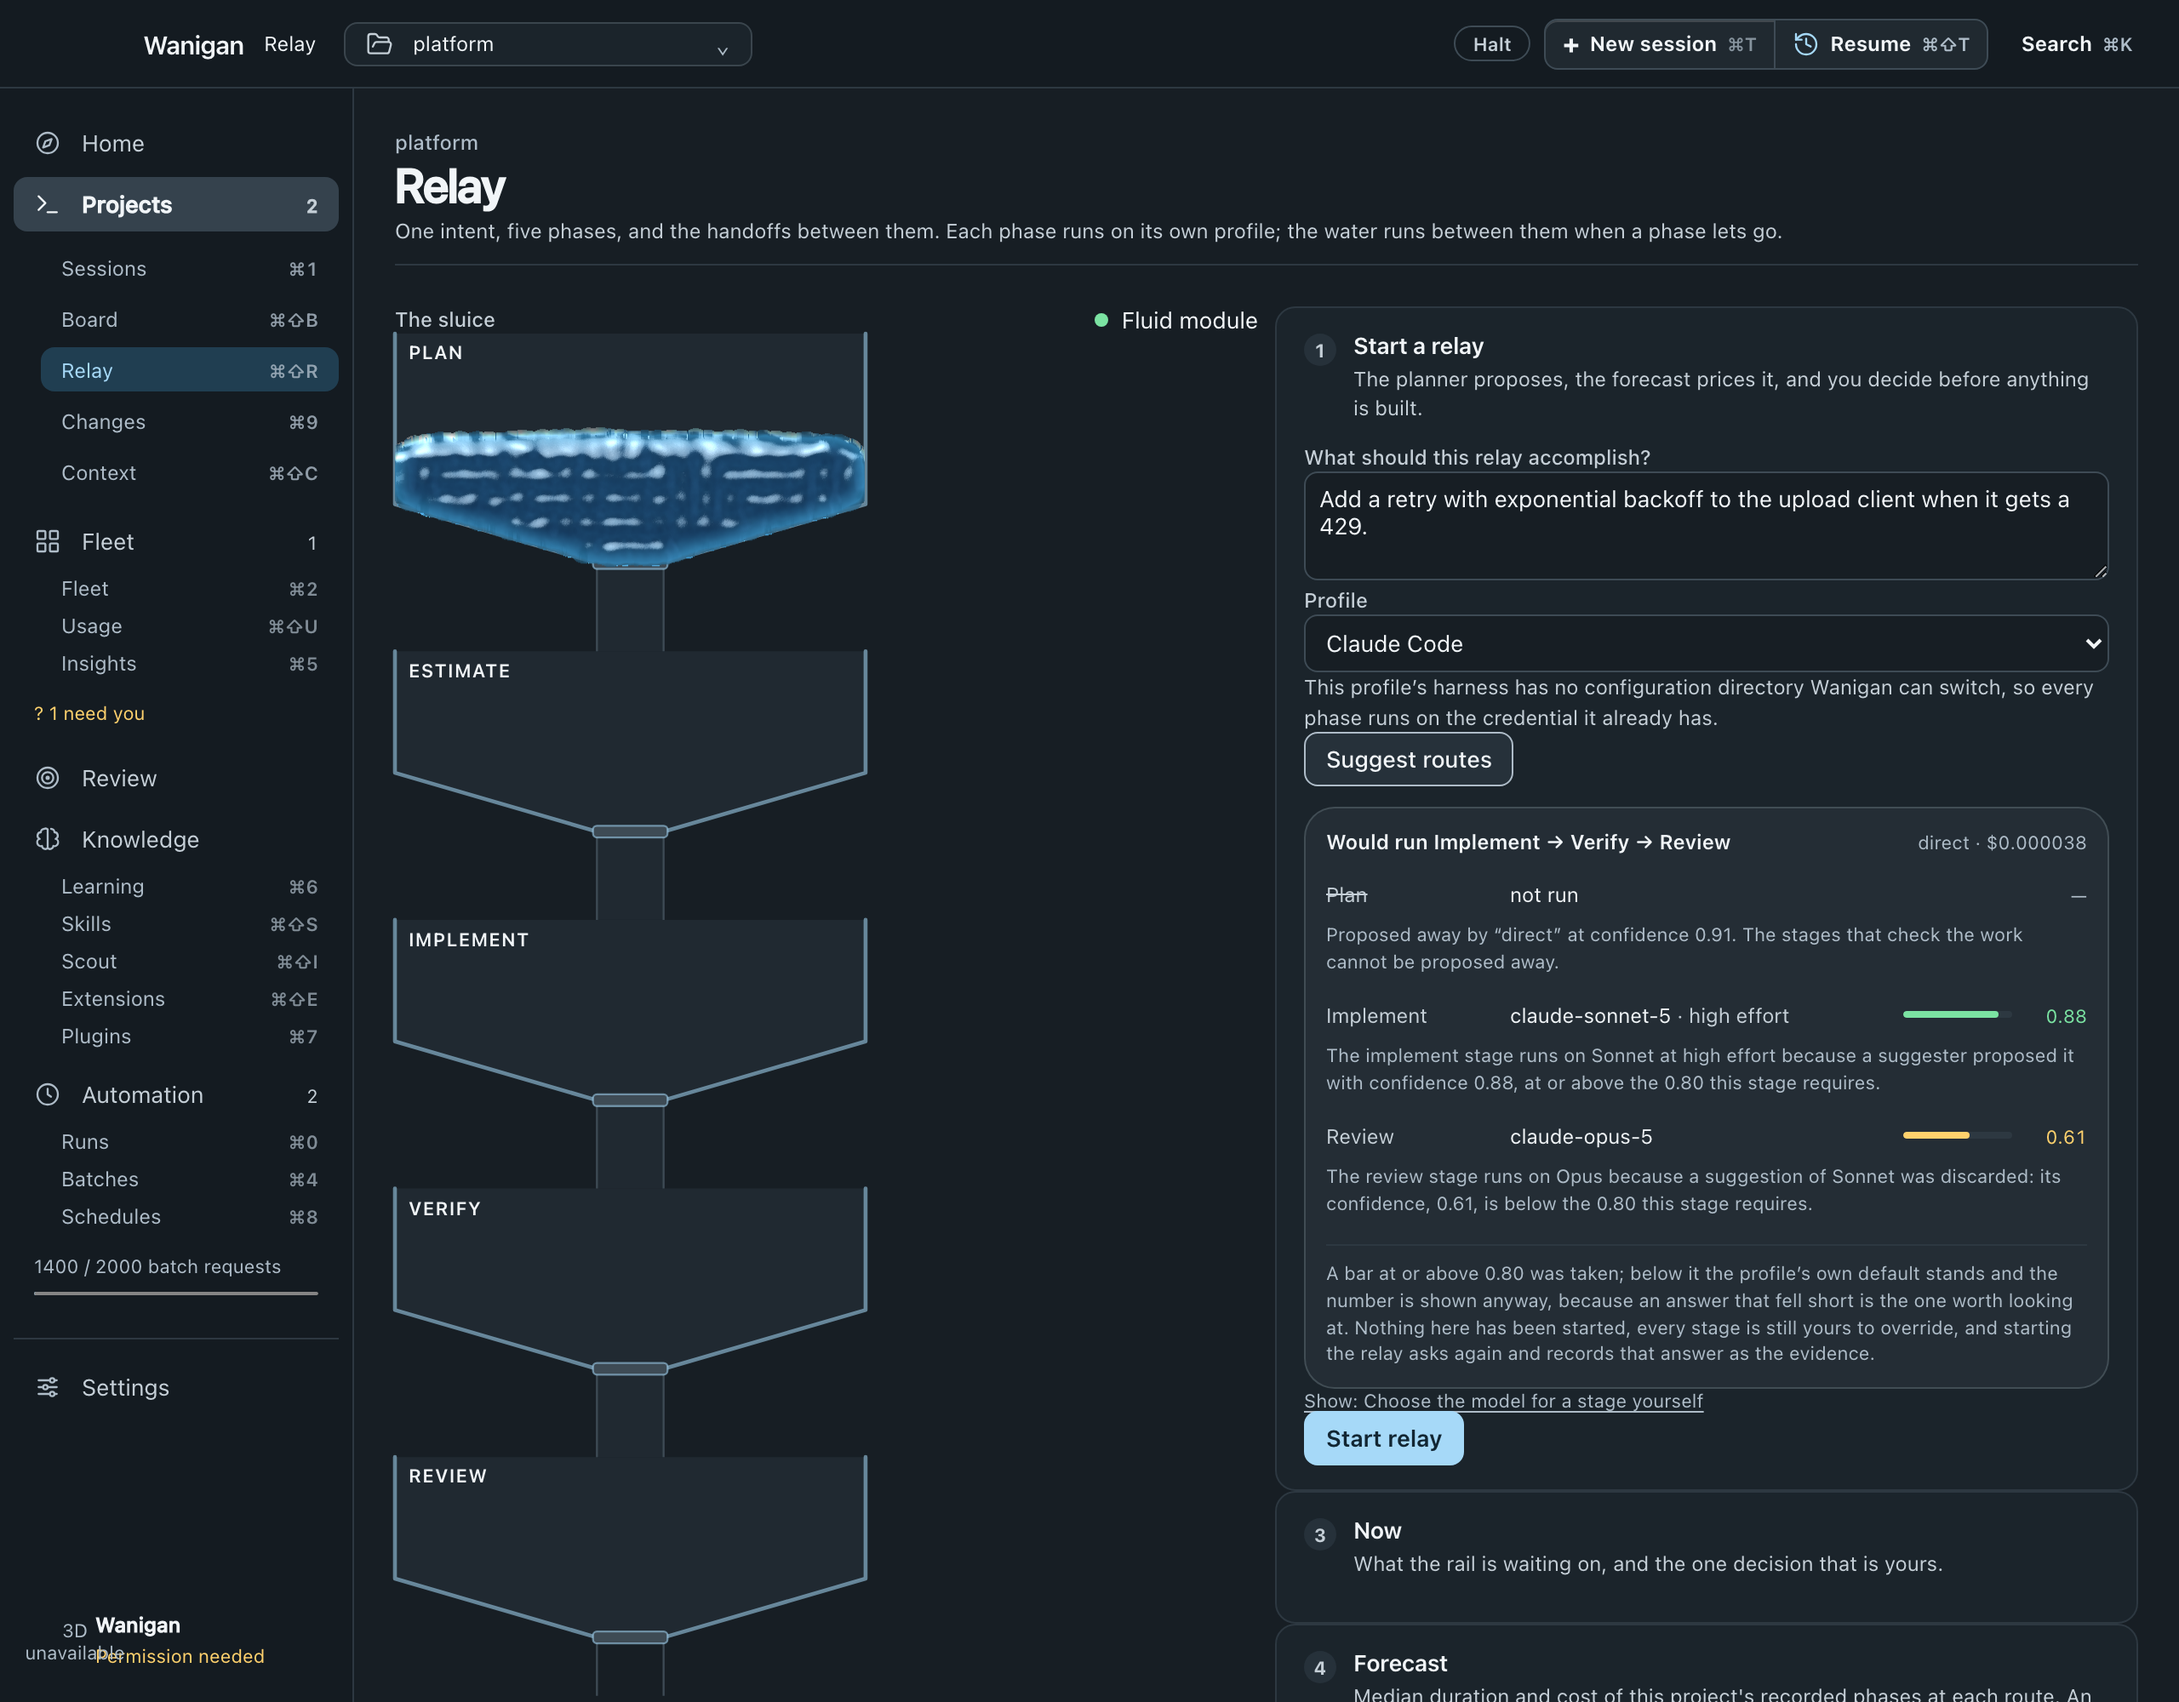
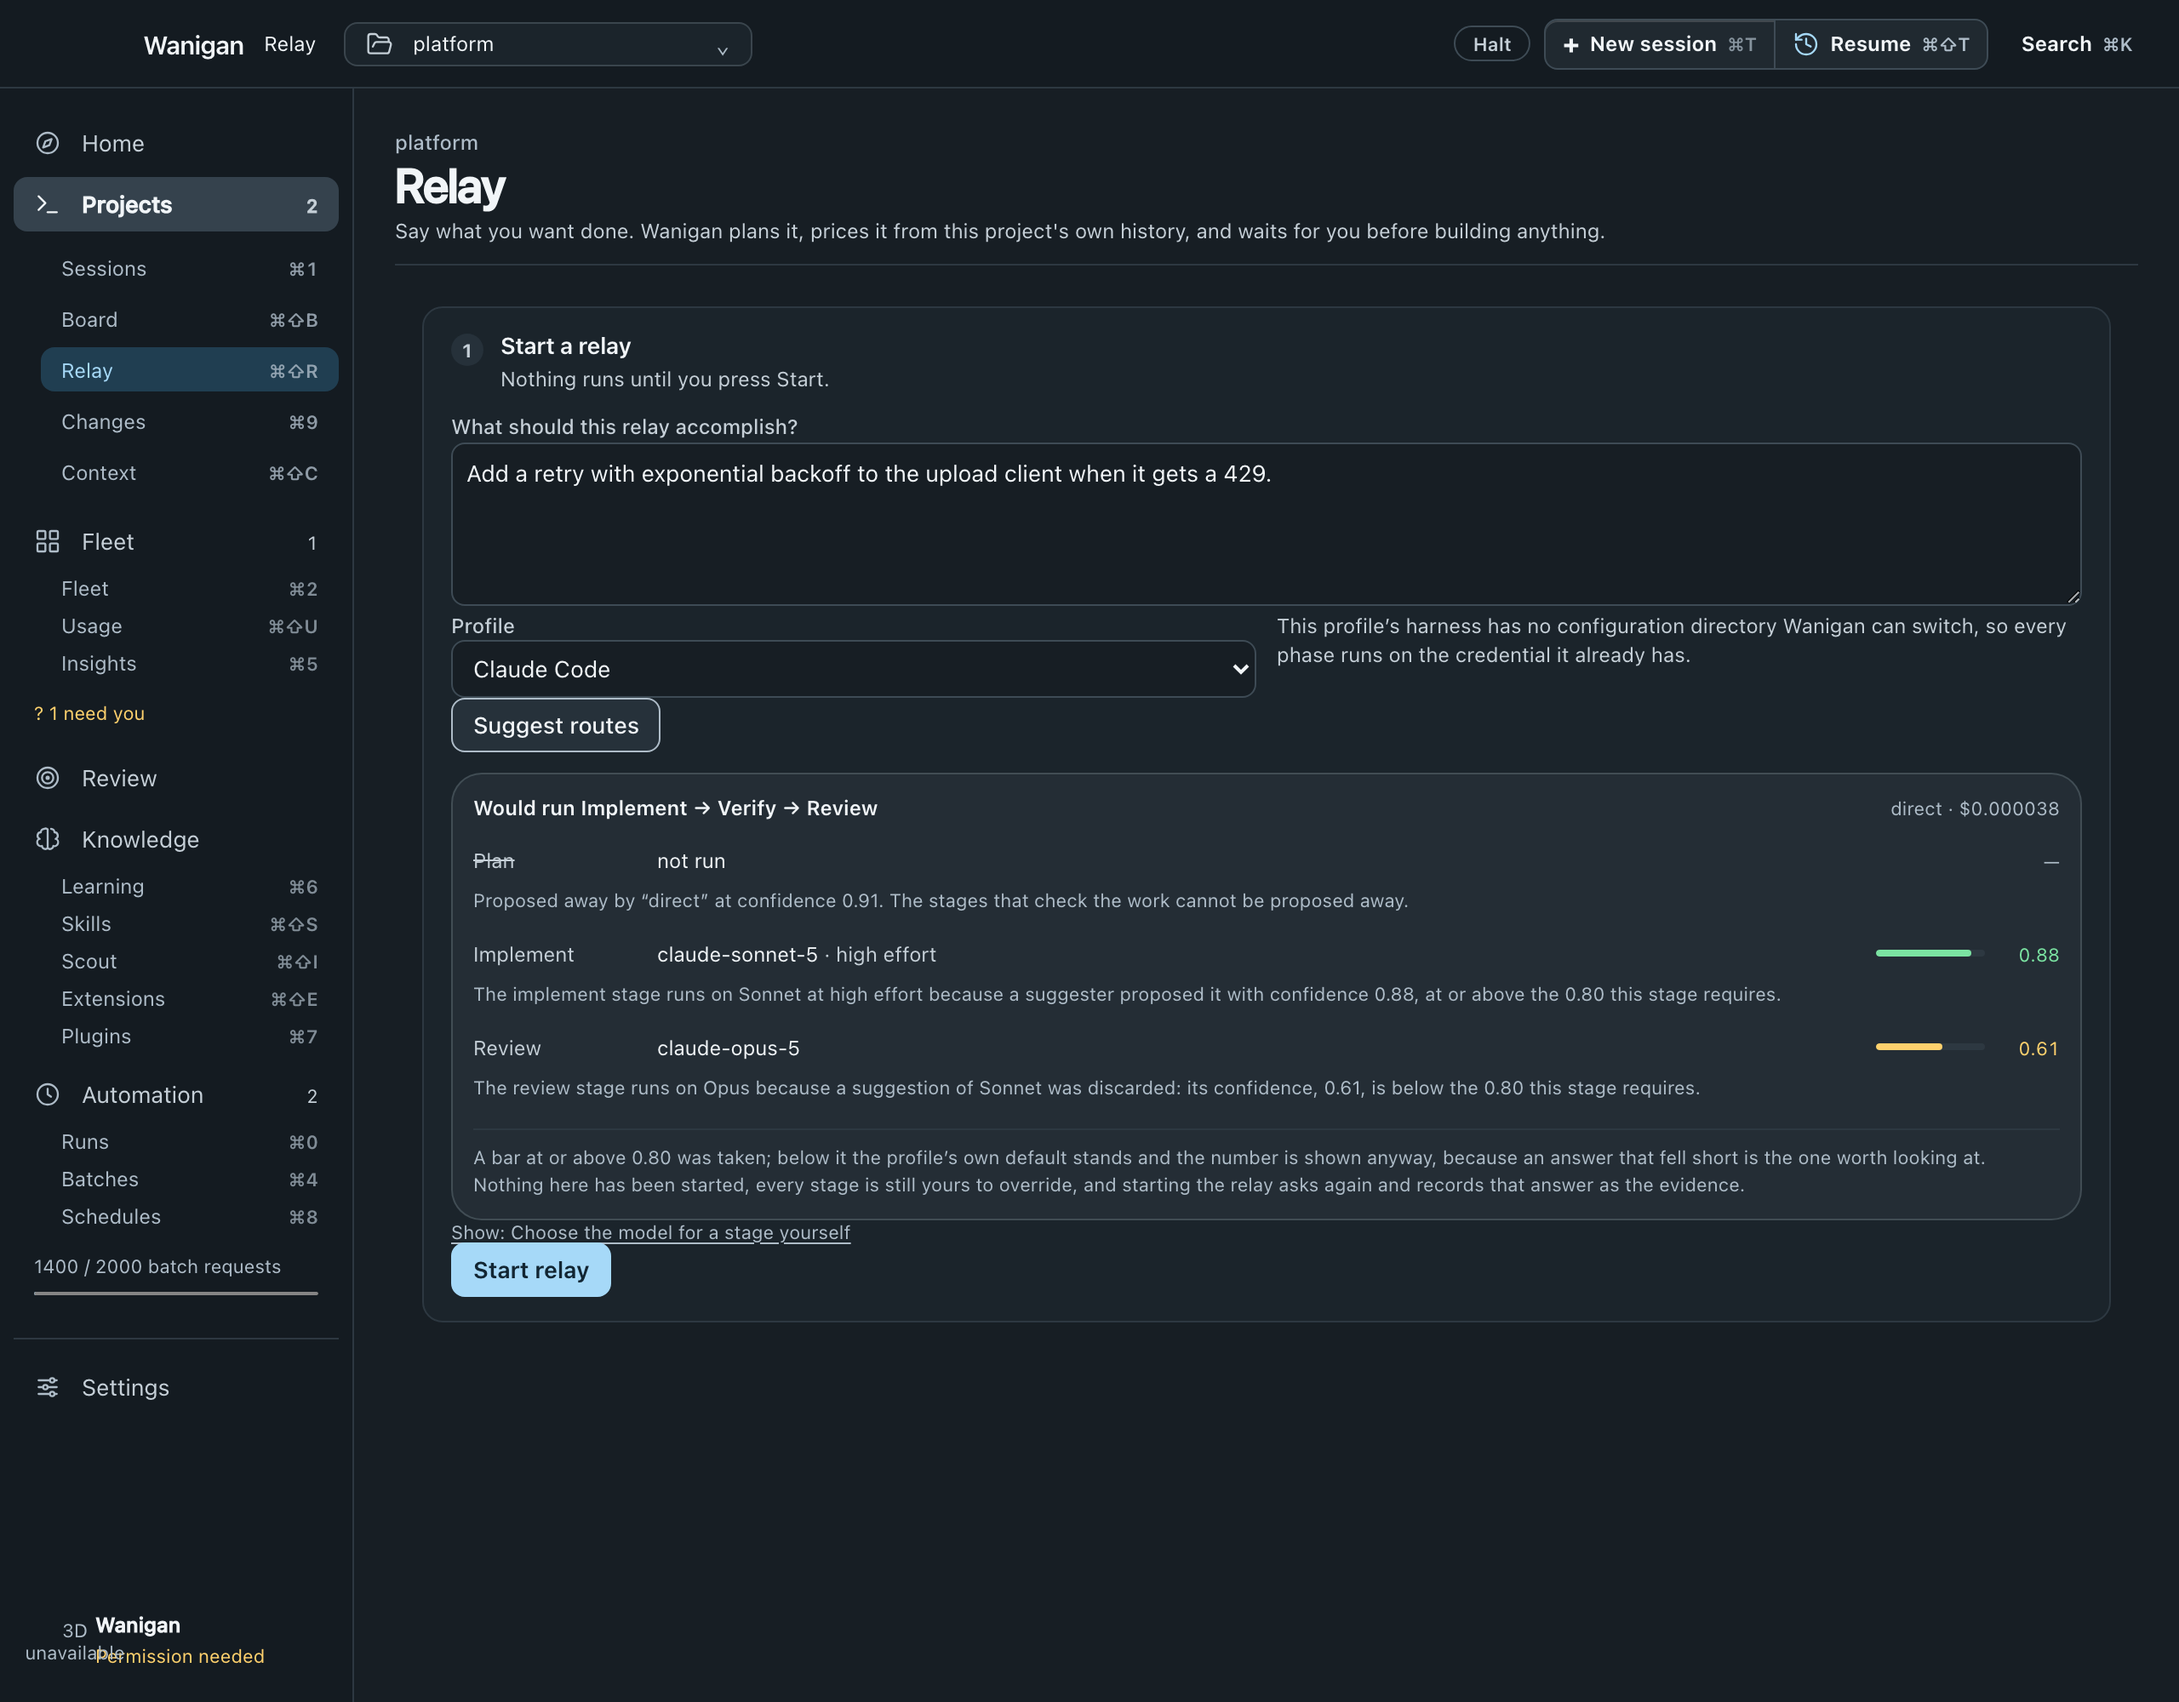
The relay composer is one column, and the rig waits until there is something to watch
Starting a relay meant meeting a two-column split whose left half drew an empty
rig, six numbered sections stacked below, and a scrollbar before the one
question that matters. The rig is a monitor: it has nothing to show until a
relay exists. So it is not drawn until one does, and until then the composer
has the pane to itself — one column, measured for reading, everything from the
question to the answer to Start visible at once.

The page lead and the section hint were written in the project's own idiom —
"the water runs between them when a phase lets go" — which is true and is not
an explanation. They now say what happens: say what you want done, Wanigan
plans it, prices it from this project's history, and waits for you.

A disabled Suggest routes button with no reason reads as a broken one. It is
disabled in exactly one situation with a profile chosen — no intent typed yet —
so it says that.

diff --git a/src/renderer/src/views/Relay.tsx b/src/renderer/src/views/Relay.tsx
@@ -331,21 +331,18 @@ export default function Relay({ projects, projectId, providers, openSession, ope
       <PageHead
         eyebrow={project ? project.name : 'No project'}
         title="Relay"
-        lead="One intent, five phases, and the handoffs between them. Each phase runs on its own profile; the water runs between them when a phase lets go."
+        lead="Say what you want done. Wanigan plans it, prices it from this project's own history, and waits for you before building anything."
       />
       {error && <Note tone="warn" onDismiss={() => setError(null)}>{error}</Note>}
 
-      <div className="row2">
-        <div>
+      <div className={read ? 'row2' : 'rl-start'}>
+        {read && <div>
           <SectionHead label="The sluice" right={
             <span className="rl-tier" data-rl-tier={tier.tier}>
               <i className="rl-tier-dot" aria-hidden="true" />
               {tier.tier === 'fluid' ? 'Fluid module' : tier.tier === 'simple' ? 'Animated level' : 'Every value, no movement'}
             </span>
           } />
-          {!read && (
-            <Hint>{relays.length ? 'Choose a relay to watch.' : 'No relay yet for this project. Start one on the right.'}</Hint>
-          )}
           <div className="rl-rig" ref={rigEl} data-rl-tier={tier.tier}>
             <svg viewBox={shapes.viewBox} xmlns="http://www.w3.org/2000/svg" aria-hidden="true">
               {shapes.basins.map((b, i) => (
@@ -397,16 +394,17 @@ export default function Relay({ projects, projectId, providers, openSession, ope
               })}
             </div>
           </div>
-        </div>
+        </div>}
 
         <div>
-          <Section n={1} title="Start a relay" hint="The planner proposes, the forecast prices it, and you decide before anything is built.">
+          <Section n={1} title="Start a relay" hint="Nothing runs until you press Start.">
             <label>
               <span className="label">What should this relay accomplish?</span>
               <textarea className="field" aria-label="What should this relay accomplish" value={intent}
                 onChange={(e) => { setIntent(e.target.value); setPreview(null); }} rows={3}
                 placeholder="First line becomes the title. Say what done looks like." disabled={busy !== null} />
             </label>
+            <div className="rl-start-meta">
             <label>
               <span className="label">Profile</span>
               <select className="field" aria-label="Profile for this relay" value={providerId}
@@ -440,10 +438,16 @@ export default function Relay({ projects, projectId, providers, openSession, ope
                 </select>
               </label>
             )}
+            </div>
             <button className={busy === 'preview' ? 'btn rl-guess-asking' : 'btn'} onClick={suggest}
                     disabled={busy !== null || !intent.trim() || !providerId}>
               {busy === 'preview' ? 'Asking…' : 'Suggest routes'}
             </button>
+            {/* A disabled control that does not say why reads as a broken one.
+                This is the only reason it is ever disabled with a profile set. */}
+            {!intent.trim() && providerId && (
+              <Hint>Say what the relay should accomplish first, and Suggest routes will ask which model fits each phase.</Hint>
+            )}
 
             {preview && !preview.asked && (
               <Note tone="info">

diff --git a/src/renderer/src/styles/relay.css b/src/renderer/src/styles/relay.css
@@ -470,3 +470,42 @@
   0%, 100% { opacity: 1; }
   50%      { opacity: 0.55; }
 }
+
+/* ── starting one ────────────────────────────────────────────────────────
+   Before a relay exists there is nothing to watch, so the rig is not drawn
+   and the composer has the pane to itself: one column, measured for reading,
+   centred. The two-column split returns the moment there is a relay to watch,
+   because then the left half is carrying something. */
+
+.pane > .rl-start {
+  display: grid;
+  gap: var(--s-4);
+  /* Long enough for the guess panel's reasons to breathe, short enough that a
+     sentence is still one eye movement. */
+  max-inline-size: 62rem;
+  margin-inline: auto;
+  inline-size: 100%;
+}
+
+/* The one question, given the room a question deserves. */
+.rl-start textarea.field {
+  min-block-size: calc(var(--s-6) * 3);
+  font-size: var(--t-body);
+  line-height: 1.5;
+}
+
+/* Profile and account are settings, not the subject. Side by side, out of the
+   way of the sentence above them. */
+.rl-start-meta {
+  display: grid;
+  grid-template-columns: repeat(auto-fit, minmax(14rem, 1fr));
+  gap: var(--s-2) var(--s-3);
+}
+
+.rl-start-actions {
+  display: flex;
+  flex-wrap: wrap;
+  align-items: center;
+  gap: var(--s-2) var(--s-3);
+  margin-block-start: var(--s-2);
+}
